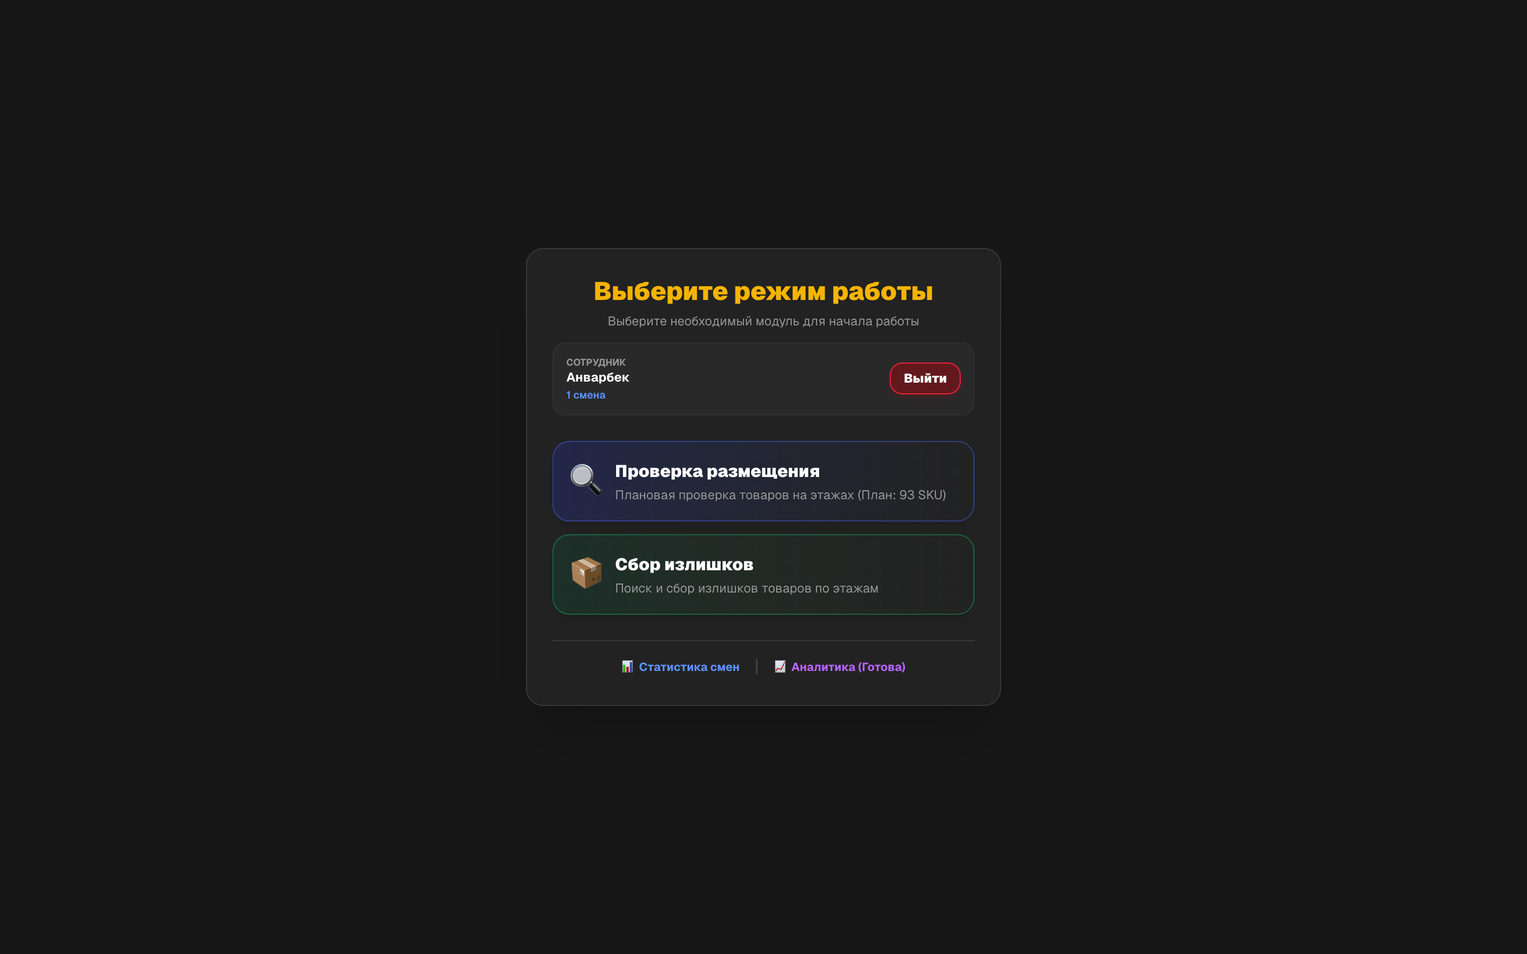
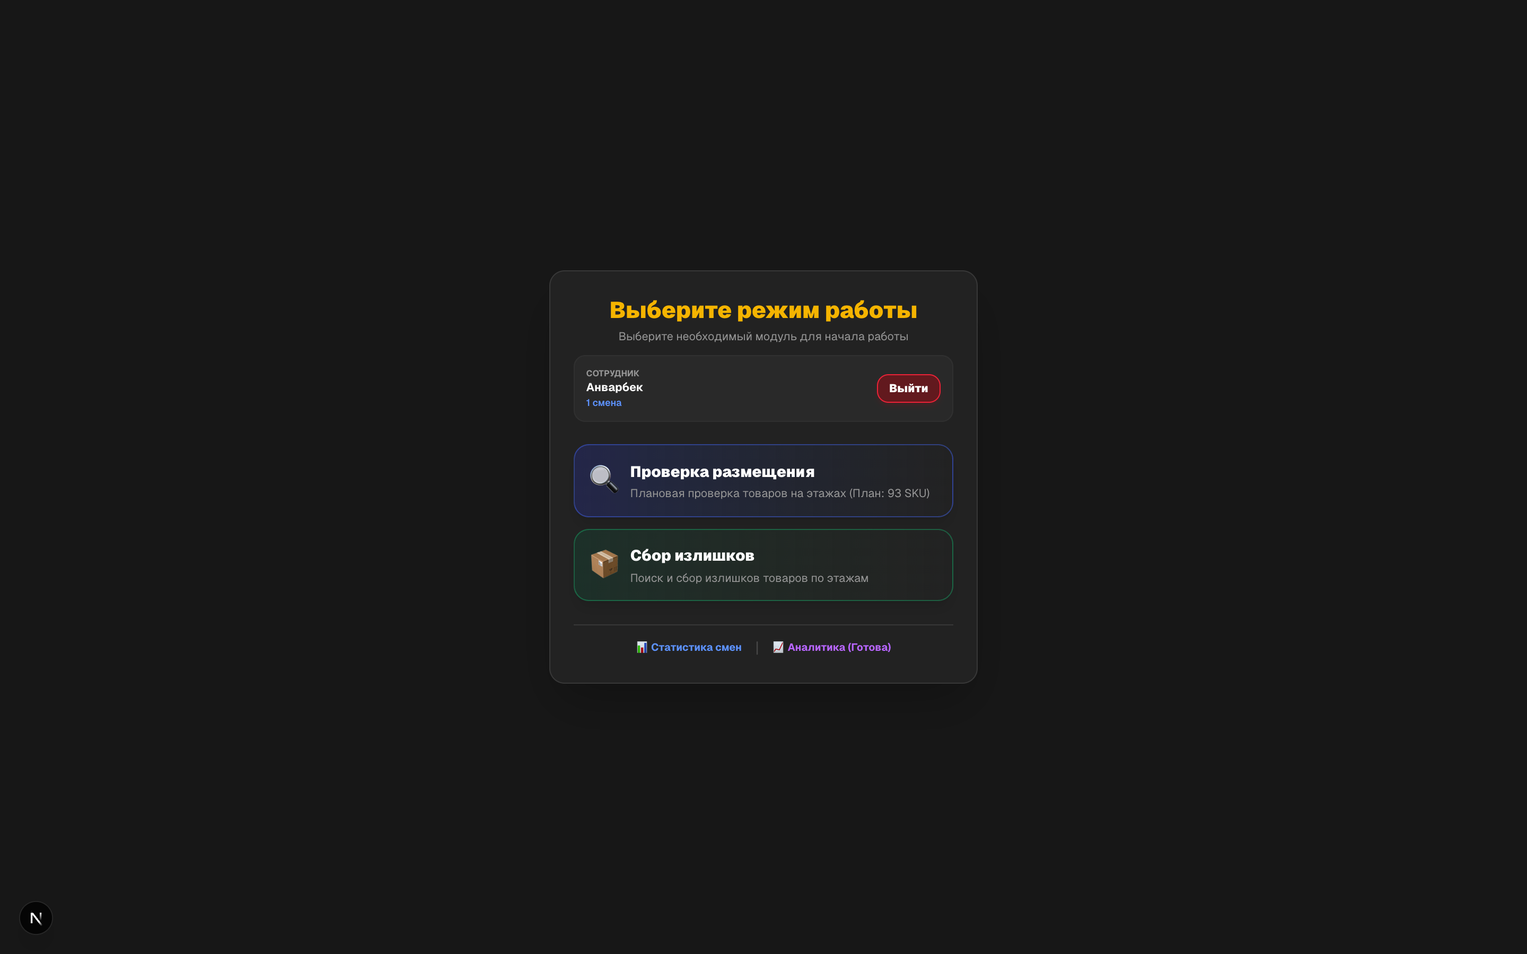
docs: fix mobile PDA screenshot orientation and add full inventory workflow breakdown with Google Sheets sync

Changed region(s): [[0.3438, 0.28, 0.6562, 0.6222], [0.5, 0.6533, 0.5938, 0.7156], [0.4062, 0.6533, 0.4688, 0.7156]]

diff --git a/src/app/api/inventory/route.js b/src/app/api/inventory/route.js
@@ -48,6 +48,24 @@ export async function GET(request) {
       }
     }
     
+    if (searchParams.get("demo") === "true" || (data && data.success && (!data.items || data.items.length === 0) && !data.item && searchParams.get("floor") === "M1")) {
+      return NextResponse.json({
+        success: true,
+        totalCount: 93,
+        items: [
+          {
+            rowIndex: 42,
+            location: "M1-08-04-B",
+            barcode: "4607029384912",
+            productId: "2801757",
+            name: "Беспроводные наушники Bluetooth 5.3 Pro Wireless с активным шумоподавлением ANC (Черный)",
+            category: "Электроника / Аудио",
+            qty: "12"
+          }
+        ]
+      });
+    }
+
     return NextResponse.json(data);
 
   } catch (error) {

diff --git a/README.md b/README.md
@@ -21,84 +21,140 @@
 
 ## 🌟 О проекте (Project Overview)
 
-**Inventory Checker** — это высокоскоростное веб-приложение (PWA) для автоматизации складских процессов, проведения плановой инвентаризации, аудита размещения товаров по ячейкам/этажам и фиксации излишков на распределительных центрах (Fulfillment / WMS).
+**Inventory Checker** — это высокоскоростное веб-приложение (PWA), созданное для автоматизации складских процессов, проведения плановой инвентаризации, оперативного аудита размещения товаров по ячейкам/этажам и фиксации излишков на распределительных центрах (Fulfillment / WMS / Uzum Market).
 
-Система разработана с упором на максимальное быстродействие операторов, работу с аппаратными лазерными сканерами штрихкодов (TSD / PDA терминалы сбора данных), валидацию местоположения SKU и синхронизацию в реальном времени с облачными таблицами **Google Sheets** без необходимости развертывания тяжелых СУБД.
+Система разработана с упором на максимальное быстродействие операторов, работу с аппаратными лазерными сканерами штрихкодов (TSD / PDA терминалы сбора данных Zebra, Honeywell, Chainway), мгновенную валидацию местоположения SKU и синхронизацию в реальном времени с облачными таблицами **Google Sheets**.
 
 ---
 
-## 📸 Интерфейс Системы (Скриншоты и Модули)
+## 📸 Интерфейс и Полный Складской Цикл (Screenshots & Workflow)
 
 ### 1. 🔐 Авторизация оператора и выбор смены
-Быстрый вход сотрудника, фиксация рабочей смены (1-смена / 2-смена) и персонального прогресса выполнения плана.
+Быстрый вход сотрудника с сохранением персонального профиля, выбором рабочей смены (`1 смена`, `2 смена`, `3 смена`, `4 смена`) и доступом к сводным отчетам.
 
 ![Авторизация оператора](docs/screenshots/01_auth_modal.png)
 
 ---
 
 ### 2. 🔀 Выбор модуля работы (Режимы системы)
-Система поддерживает два основных бизнес-процесса склада:
+Система поддерживает два ключевых складских бизнес-процесса:
 - **🔍 Проверка размещения** — плановый аудит SKU по ячейкам (норматив: 93 SKU на оператора);
-- **📦 Сбор излишков** — сбор и фиксация неучтенных товаров по зонам хранения.
+- **📦 Сбор излишков** — сбор, упаковка и фиксация неучтенных товаров по зонам склада.
 
 ![Выбор режима работы](docs/screenshots/02_mode_selection.png)
 
 ---
 
 ### 3. 🏢 Выбор этажа и зоны хранения (M1 – M5, СГТ)
-Удобная навигация по этажам мезонина (M1, M2, M3, M4, M5) и крупногабаритной зоне (СГТ) с интеллектуальным распределением очереди товаров между сотрудниками.
+Удобная навигация по этажам мезонина (`M1`, `M2`, `M3`, `M4`, `M5`) и крупногабаритной зоне (`СГТ`) с динамической фильтрацией доступных заданий.
 
 ![Выбор этажа](docs/screenshots/03_floor_selection.png)
 
 ---
 
-### 4. 📊 Статистика смен и KPI выполнения норм
-Модуль детальной аналитики: дневной план (600 SKU на смену), фильтрация по датам, учет подтвержденных и отсутствующих позиций в реальном времени.
+### 4. 🎯 Рабочий экран сканирования SKU (Ячейка и карточка товара)
+Информативная карточка текущего задания:
+- **Ячейка хранения:** Крупное отображение адреса (например, `M1-08-04-B` — Этаж `M1`, Ряд `08`, Стеллаж `04`, Полка `B`);
+- **Штрихкод товара:** Полный номер + **визуальная подсветка последних 4 цифр** для быстрой сверки оператором;
+- **🔍 Товар на Uzum:** Прямая интерактивная ссылка для мгновенного открытия карточки товара на Uzum Market (фото, характеристики, комплектация);
+- **Индикатор статуса:** `🔴 ОЖИДАНИЕ СКАНИРОВАНИЯ` (кнопка подтверждения заблокирована до сканирования штрихкода).
 
-![Статистика смен](docs/screenshots/05_statistics_modal.png)
+![Экран сканирования SKU](docs/screenshots/04_scanning_sku_waiting.png)
 
 ---
 
-### 5. 📱 Адаптация под мобильные ТСД (PDA / Handheld Scanners)
-Полная поддержка ландшафтного режима для промышленных терминалов сбора данных (Zebra, Honeywell, Chainway, Newland) и смартфонов через PWA.
+### 5. ⚡ Процесс сканирования и проверка габаритов / категории
+1. При считывании штрихкода лазерным лучом сканера статус меняется на `🟢 СКАНИРОВАН`;
+2. Воспроизводится звуковой сигнал подтверждения (двойной звонок);
+3. Автоматически открывается панель подтверждения соответствия стандартам:
+   > *"Товар размещен правильно по габаритам и категории? [ ✅ Да ] / [ ❌ Нет ]"*
+
+![Подтверждение габаритов](docs/screenshots/05_sku_scanned_dimension.png)
+
+---
+
+### 6. ❌ Обработка отсутствующих позиций и Real-Time Toast
+Если товара нет в указанной ячейке:
+- Оператор нажимает кнопку **«❌ Отсутствует»**;
+- Воспроизводится предупреждающий сигнал;
+- Всплывает уведомление о сохранении данных;
+- В **Google Таблицу** моментально вносится запись со статусом `Отсутствует`, именем сотрудника и датой/временем;
+- Система мгновенно переходит к следующему SKU без задержек.
+
+![Уведомление об отсутствии](docs/screenshots/06_action_toast.png)
+
+---
+
+### 7. 📱 Адаптация под мобильные ТСД (PDA / Handheld Scanners)
+Интерфейс оптимизирован под промышленные экраны терминалов сбора данных: крупные интерактивные элементы, отсутствие лишнего скролла, высокая контрастность для работы при любом складском освещении.
 
 <p align="center">
-  <img src="docs/screenshots/06_mobile_pda.png" width="360" alt="Mobile PDA Screen" />
+  <img src="docs/screenshots/07_mobile_pda_view.png" width="800" alt="Mobile PDA Screen" />
 </p>
 
 ---
 
-## 🚀 Ключевые возможности (Key Features)
+## 🔄 Механизм фиксации данных в Google Sheets (Backend Workflow)
+
+Каждое действие оператора на терминале моментально отражается в облачной таблице через бессерверный движок **Google Apps Script**:
+
+```mermaid
+sequenceDiagram
+    autonumber
+    actor Op as 👷 Оператор (ТСД)
+    participant UI as 📱 Next.js App
+    participant API as ⚡ Serverless API
+    participant GAS as ⚙ Google Apps Script (Code.gs)
+    participant DB as 📊 Google Sheets DB
+
+    Note over Op,UI: 1. Сканирование / Выбор действия
+    Op->>UI: Считывание штрихкода лазером
+    UI-->>Op: Звуковой сигнал 🔔 + Статус "🟢 Сканирован"
+    Op->>UI: Ответ на габариты: "Да" (или нажатие "❌ Отсутствует")
+    
+    Note over UI,DB: 2. Оптимистичное обновление UI
+    UI->>UI: Переключение на следующий SKU (0ms задержка)
+    UI->>API: POST /api/inventory (rowIndex, status, dimensions, operator, shift)
+    API->>GAS: doGet/doPost (action: updateRow)
+    
+    Note over GAS,DB: 3. Атомарная запись в таблицу
+    GAS->>DB: LockService.getScriptLock() (Защита от перезаписи)
+    GAS->>DB: Запись в ячейки: Статус | Кто проверил | Время | Габариты
+    GAS-->>API: { success: true, updatedRow: 42 }
+    API-->>UI: Синхронизация подтверждена
+```
+
+### 📋 Структура фиксируемых колонок в Google Sheets:
+| Колонка | Название поля | Пример значения | Описание |
+| :--- | :--- | :--- | :--- |
+| **Col A** | `Ячейка` | `M1-08-04-B` | Точный складской адрес хранения |
+| **Col B** | `Штрихкод` | `4607029384912` | Штрихкод SKU для валидации |
+| **Col C** | `Наименование` | `Беспроводные наушники Pro Wireless` | Полное название товара |
+| **Col D** | `Кол-во` | `12` | Плановый остаток в ячейке |
+| **Col E** | `Статус проверки` | **`Подтвержден`** / **`Отсутствует`** | Итоговый результат аудита |
+| **Col F** | `Габариты / Категория` | **`Да`** / **`Нет`** | Соответствие физическим размерам ячейки |
+| **Col G** | `Сотрудник` | `Анварбек` | Ф.И.О. оператора, выполнившего проверку |
+| **Col H** | `Дата и время` | `27.08.2026 10:30:15` | Точная временная метка (Timestamp) |
+
+---
+
+## 🚀 Ключевые преимущества и функционал
 
 - ⚡ **Аппаратный ввод штрихкодов (Keyboard Wedge)**:
   - Автоматический перехват потока со сканера за миллисекунды;
   - Мгновенное подтверждение позиции без необходимости кликать мышкой или тапать по экрану.
-- 🔊 **Звуковая сигнализация (Web Audio API)**:
-  - Разные типы звуковых уведомлений: успешное сканирование, предупреждение при ошибке штрихкода, завершение нормы.
-- 🔒 **Защита от конфликтов операторов (Row & Aisle Locking)**:
-  - Кэширование и временная блокировка рядов/ячеек для предотвращения одновременной проверки одного товара несколькими сотрудниками.
-- 🔄 **Двусторонняя синхронизация с Google Sheets**:
-  - Быстрое чтение и запись через оптимизированный бэкенд на **Google Apps Script**;
-  - Бессерверная архитектура с нулевой стоимостью хостинга БД.
-- 📈 **Мониторинг прогресса и геймификация**:
-  - Интерактивный прогресс-бар нормы (93 SKU);
-  - Анимация при успешном закрытии дневного плана.
+- 🔍 **Интеграция с Uzum Market**:
+  - Быстрый переход к карточке товара по SKU для визуальной идентификации упаковки и исключения пересорта.
+- 🔊 **Звуковая сигнализация (Web Audio API Synthesizer)**:
+  - Разные типы звуковых уведомлений: успешное сканирование, предупреждение при ошибке штрихкода, завершение дневной нормы.
+- 🔒 **Защита от конфликтов операторов (Row Locking)**:
+  - Временная блокировка строк на уровне бэкенда исключает одновременную проверку одного товара двумя сотрудниками.
+- 📈 **Мониторинг прогресса и KPI**:
+  - Интерактивный прогресс-бар нормы (93 SKU на оператора / 600 SKU на смену);
+  - Детальная статистика по сменам и модуль аналитики «Готова».
 - 📲 **PWA & Offline Capability**:
-  - Установка как нативного приложения на Android / iOS / Desktop;
-  - Сервис-воркеры для кэширования статики и интерфейса.
-
----
-
-## 🏗 Архитектура Системы (Architecture)
-
-```mermaid
-graph LR
-    A[Оператор / ТСД Сканер] -->|Штрихкод / Тап| B[Next.js 16 Web App]
-    B -->|Audio Feedback| A
-    B -->|API Proxy / Cache| C[Next.js Serverless Route]
-    C -->|REST API| D[Google Apps Script Engine]
-    D -->|Row Lock & Audit Log| E[(Google Sheets Database)]
-```
+  - Установка как нативного приложения на Android / iOS / Windows ТСД;
+  - Быстрая работа даже при нестабильном складском Wi-Fi.
 
 ---
 
@@ -108,7 +164,7 @@ graph LR
 | :--- | :--- | :--- |
 | **Фреймворк** | **Next.js 16 (App Router)** | Высокая производительность и Serverless роуты |
 | **Библиотека интерфейса** | **React 19 & Tailwind CSS v4** | Современный адаптивный UI с темной темой |
-| **Складской сканер** | **Hardware Event Buffer + ZXing** | Считывание аппаратными и оптическими сканерами |
+| **Складской сканер** | **Hardware Event Buffer + ZXing** | Считывание аппаратными лазерными и оптическими сканерами |
 | **Звуковой движок** | **Web Audio API (Synthesizer)** | Встроенная синтезированная звуковая обратная связь |
 | **База данных и API** | **Google Sheets & Google Apps Script** | Облачная табличная СУБД с транзакционной логикой |
 | **Деплой** | **Vercel** | Global Edge Network с авто-деплоем |
